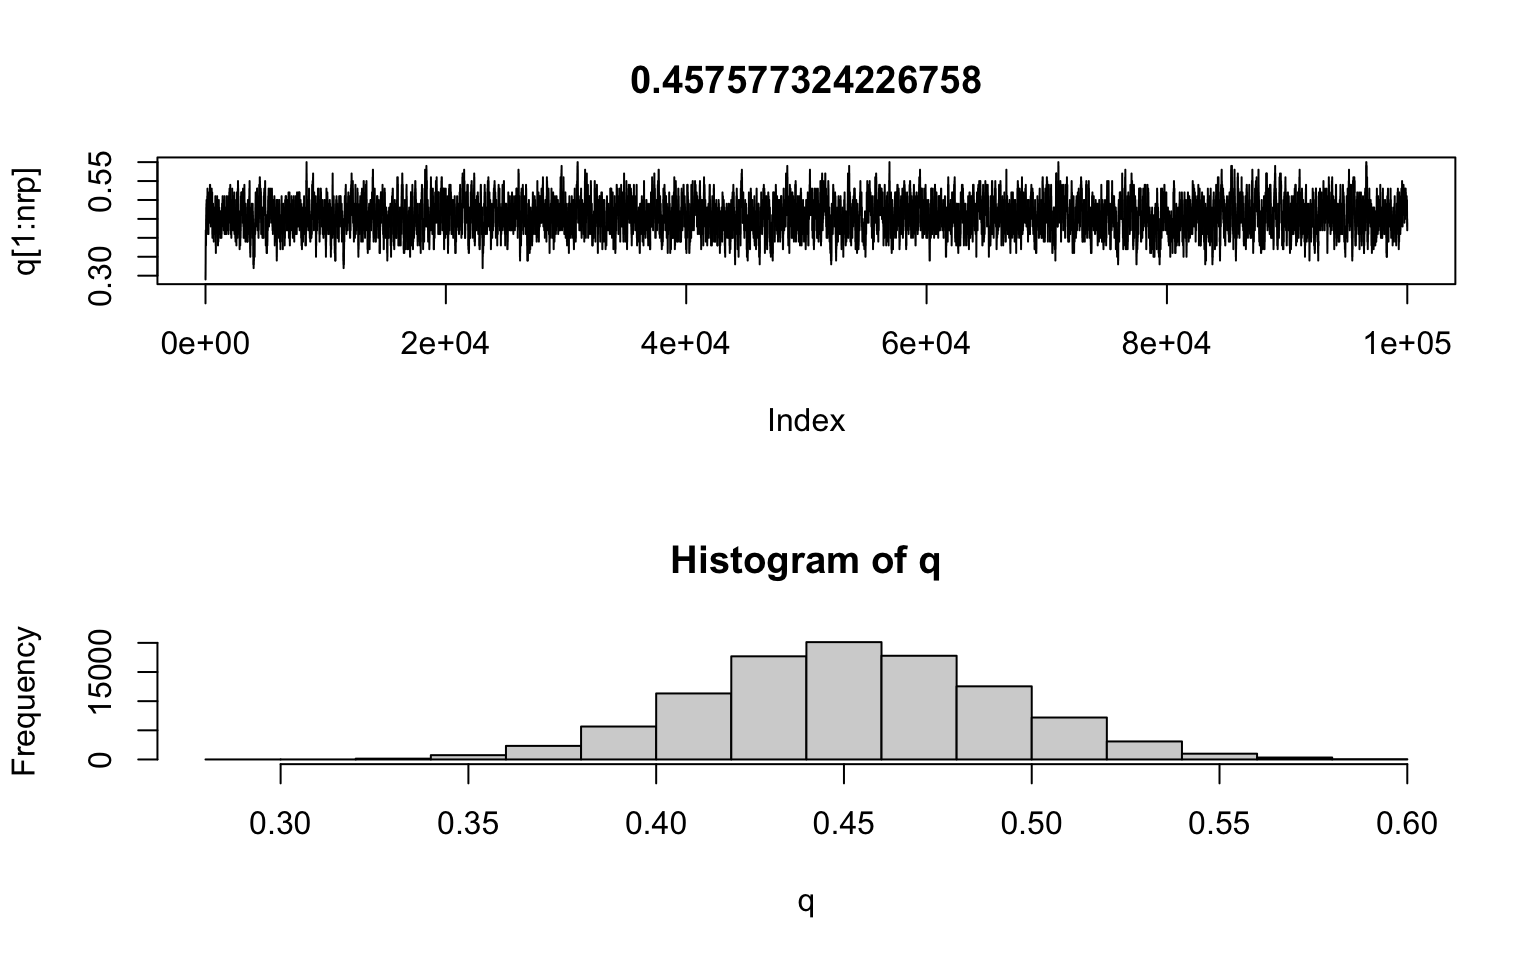
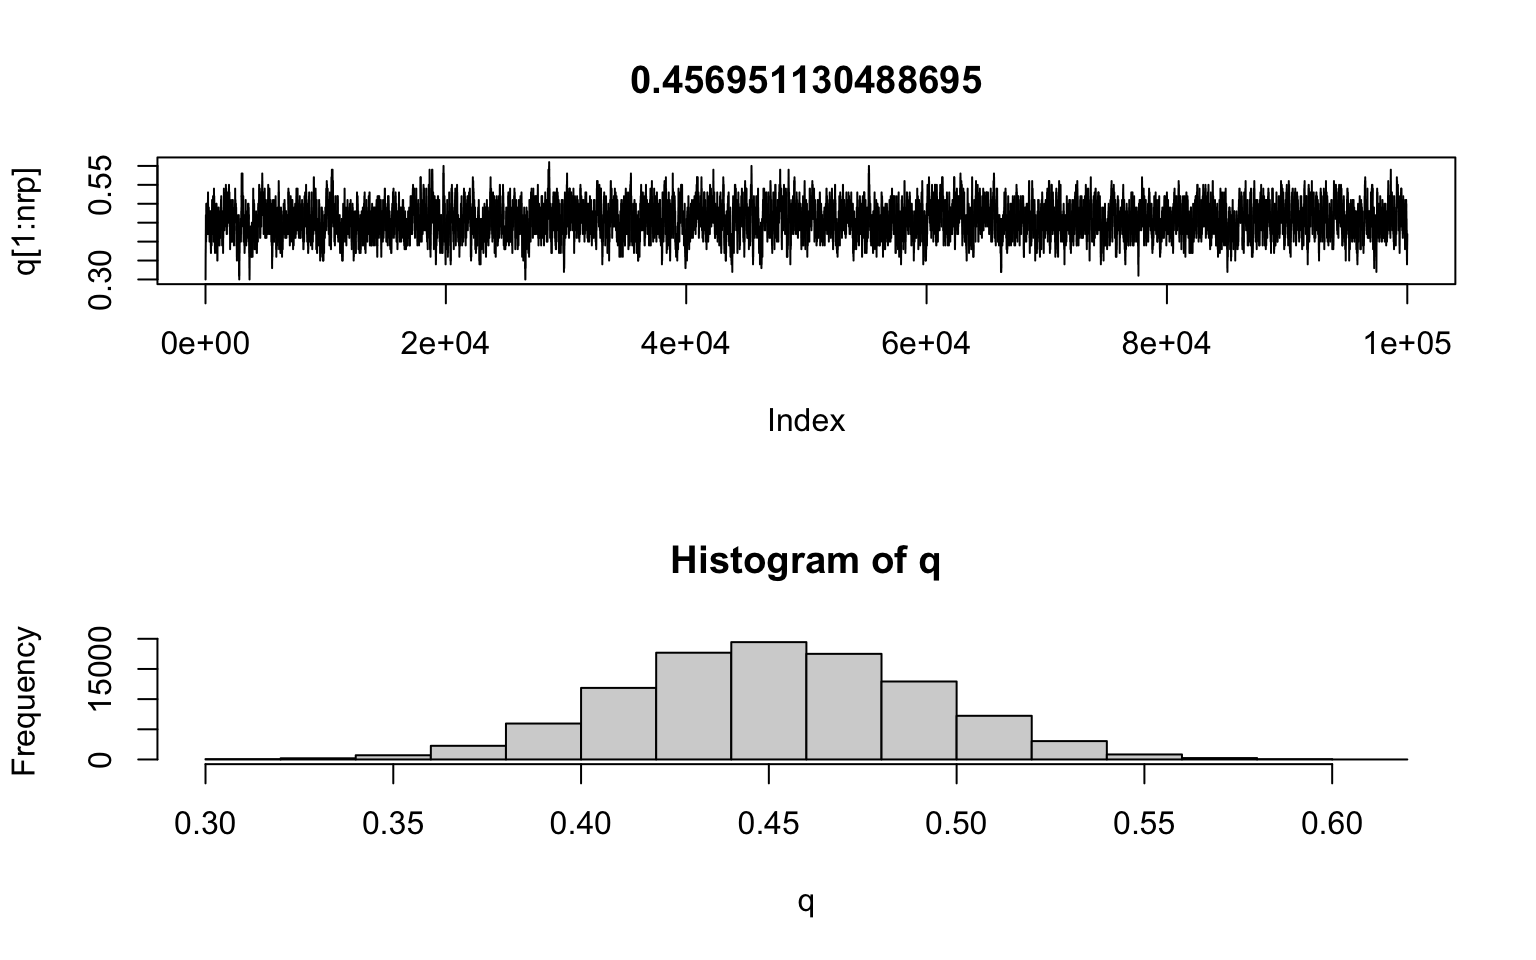
modify 2

diff --git a/docs/baba.html b/docs/baba.html
@@ -1187,30 +1187,32 @@
 <div class="sourceCode" id="cb11"><pre class="sourceCode r"><code class="sourceCode r"><span id="cb11-1"><a href="#cb11-1" aria-hidden="true" tabindex="-1"></a><span class="fu">layout</span>(<span class="fu">matrix</span>(<span class="dv">1</span><span class="sc">:</span><span class="dv">2</span>, <span class="at">ncol=</span><span class="dv">2</span>))</span>
 <span id="cb11-2"><a href="#cb11-2" aria-hidden="true" tabindex="-1"></a>nrp<span class="ot">&lt;-</span><span class="dv">2000</span></span>
 <span id="cb11-3"><a href="#cb11-3" aria-hidden="true" tabindex="-1"></a>data<span class="ot">&lt;-</span><span class="fu">c</span>(<span class="fl">2.4</span>,<span class="fl">3.2</span>,<span class="fl">2.2</span>,<span class="fl">4.6</span>,<span class="fl">3.3</span>)</span>
-<span id="cb11-4"><a href="#cb11-4" aria-hidden="true" tabindex="-1"></a>ti<span class="ot">&lt;-</span><span class="fu">runif</span>(<span class="dv">1</span>,<span class="at">min=</span><span class="sc">-</span><span class="dv">2</span>,<span class="at">max=</span><span class="dv">2</span>) <span class="co"># -2から2の連続一様分布に従う乱数</span></span>
-<span id="cb11-5"><a href="#cb11-5" aria-hidden="true" tabindex="-1"></a>knl<span class="ot">&lt;-</span><span class="fu">numeric</span>(nrp)</span>
-<span id="cb11-6"><a href="#cb11-6" aria-hidden="true" tabindex="-1"></a>theta<span class="ot">&lt;-</span><span class="fu">numeric</span>(nrp)</span>
-<span id="cb11-7"><a href="#cb11-7" aria-hidden="true" tabindex="-1"></a>theta[<span class="dv">1</span>]<span class="ot">&lt;-</span>ti</span>
-<span id="cb11-8"><a href="#cb11-8" aria-hidden="true" tabindex="-1"></a>ratio<span class="ot">&lt;-</span><span class="dv">1</span></span>
-<span id="cb11-9"><a href="#cb11-9" aria-hidden="true" tabindex="-1"></a><span class="cf">for</span> (rp <span class="cf">in</span> <span class="dv">1</span><span class="sc">:</span>nrp){</span>
-<span id="cb11-10"><a href="#cb11-10" aria-hidden="true" tabindex="-1"></a>  kp<span class="ot">&lt;-</span><span class="fu">numeric</span>(<span class="fu">length</span>(data))</span>
-<span id="cb11-11"><a href="#cb11-11" aria-hidden="true" tabindex="-1"></a>  <span class="cf">for</span> (d <span class="cf">in</span> <span class="dv">1</span><span class="sc">:</span><span class="fu">length</span>(data)){</span>
-<span id="cb11-12"><a href="#cb11-12" aria-hidden="true" tabindex="-1"></a>    kp[d]<span class="ot">&lt;-</span><span class="fu">exp</span>(<span class="sc">-</span>((data[d]<span class="sc">-</span>theta[rp])<span class="sc">^</span><span class="dv">2</span>)<span class="sc">/</span><span class="dv">2</span>)<span class="sc">/</span><span class="fu">sqrt</span>(<span class="dv">2</span>)<span class="sc">*</span>pi</span>
-<span id="cb11-13"><a href="#cb11-13" aria-hidden="true" tabindex="-1"></a>  }</span>
-<span id="cb11-14"><a href="#cb11-14" aria-hidden="true" tabindex="-1"></a>  knl[rp]<span class="ot">&lt;-</span><span class="fu">prod</span>(kp)<span class="sc">*</span><span class="fu">exp</span>(<span class="sc">-</span>(theta[rp]<span class="sc">^</span><span class="dv">2</span><span class="sc">/</span><span class="dv">20000</span>))<span class="sc">/</span><span class="fu">sqrt</span>(<span class="dv">20000</span><span class="sc">*</span>pi) <span class="co">#カーネルの計算</span></span>
-<span id="cb11-15"><a href="#cb11-15" aria-hidden="true" tabindex="-1"></a>  </span>
-<span id="cb11-16"><a href="#cb11-16" aria-hidden="true" tabindex="-1"></a>  <span class="cf">if</span> (rp<span class="sc">&gt;</span><span class="dv">1</span>){</span>
-<span id="cb11-17"><a href="#cb11-17" aria-hidden="true" tabindex="-1"></a>    lr<span class="ot">&lt;-</span>knl[rp]<span class="sc">/</span>knl[rp<span class="dv">-1</span>]  <span class="co"># カーネル比（rate）の算出</span></span>
-<span id="cb11-18"><a href="#cb11-18" aria-hidden="true" tabindex="-1"></a>    <span class="cf">if</span> (<span class="fu">runif</span>(<span class="dv">1</span>)<span class="sc">&gt;</span>lr){ <span class="co"># 確率rateで提案thetaを採用</span></span>
-<span id="cb11-19"><a href="#cb11-19" aria-hidden="true" tabindex="-1"></a>      <span class="co">#print(lr)</span></span>
-<span id="cb11-20"><a href="#cb11-20" aria-hidden="true" tabindex="-1"></a>      theta[rp]<span class="ot">&lt;-</span>theta[rp<span class="dv">-1</span>]</span>
-<span id="cb11-21"><a href="#cb11-21" aria-hidden="true" tabindex="-1"></a>      knl[rp]<span class="ot">&lt;-</span>knl[rp<span class="dv">-1</span>]</span>
-<span id="cb11-22"><a href="#cb11-22" aria-hidden="true" tabindex="-1"></a>    }</span>
-<span id="cb11-23"><a href="#cb11-23" aria-hidden="true" tabindex="-1"></a>  }</span>
-<span id="cb11-24"><a href="#cb11-24" aria-hidden="true" tabindex="-1"></a>  theta[rp<span class="sc">+</span><span class="dv">1</span>]<span class="ot">&lt;-</span>theta[rp]<span class="sc">+</span><span class="fu">rnorm</span>(<span class="dv">1</span>,m,v) <span class="co"># 次のthetaの生成, 平均m, 分散vの正規分布に従う乱数を前のthetaにたす</span></span>
-<span id="cb11-25"><a href="#cb11-25" aria-hidden="true" tabindex="-1"></a>}</span>
-<span id="cb11-26"><a href="#cb11-26" aria-hidden="true" tabindex="-1"></a><span class="fu">plot</span>(theta[<span class="dv">1</span><span class="sc">:</span>nrp],<span class="at">type=</span><span class="st">&#39;l&#39;</span>, <span class="at">main=</span><span class="fu">mean</span>(theta))</span>
-<span id="cb11-27"><a href="#cb11-27" aria-hidden="true" tabindex="-1"></a><span class="fu">hist</span>(theta)</span></code></pre></div>
+<span id="cb11-4"><a href="#cb11-4" aria-hidden="true" tabindex="-1"></a>m<span class="ot">&lt;-</span><span class="dv">0</span></span>
+<span id="cb11-5"><a href="#cb11-5" aria-hidden="true" tabindex="-1"></a>v<span class="ot">&lt;-</span><span class="dv">1</span></span>
+<span id="cb11-6"><a href="#cb11-6" aria-hidden="true" tabindex="-1"></a>ti<span class="ot">&lt;-</span><span class="fu">runif</span>(<span class="dv">1</span>,<span class="at">min=</span><span class="sc">-</span><span class="dv">2</span>,<span class="at">max=</span><span class="dv">2</span>) <span class="co"># -2から2の連続一様分布に従う乱数</span></span>
+<span id="cb11-7"><a href="#cb11-7" aria-hidden="true" tabindex="-1"></a>knl<span class="ot">&lt;-</span><span class="fu">numeric</span>(nrp)</span>
+<span id="cb11-8"><a href="#cb11-8" aria-hidden="true" tabindex="-1"></a>theta<span class="ot">&lt;-</span><span class="fu">numeric</span>(nrp)</span>
+<span id="cb11-9"><a href="#cb11-9" aria-hidden="true" tabindex="-1"></a>theta[<span class="dv">1</span>]<span class="ot">&lt;-</span>ti</span>
+<span id="cb11-10"><a href="#cb11-10" aria-hidden="true" tabindex="-1"></a>ratio<span class="ot">&lt;-</span><span class="dv">1</span></span>
+<span id="cb11-11"><a href="#cb11-11" aria-hidden="true" tabindex="-1"></a><span class="cf">for</span> (rp <span class="cf">in</span> <span class="dv">1</span><span class="sc">:</span>nrp){</span>
+<span id="cb11-12"><a href="#cb11-12" aria-hidden="true" tabindex="-1"></a>  kp<span class="ot">&lt;-</span><span class="fu">numeric</span>(<span class="fu">length</span>(data))</span>
+<span id="cb11-13"><a href="#cb11-13" aria-hidden="true" tabindex="-1"></a>  <span class="cf">for</span> (d <span class="cf">in</span> <span class="dv">1</span><span class="sc">:</span><span class="fu">length</span>(data)){</span>
+<span id="cb11-14"><a href="#cb11-14" aria-hidden="true" tabindex="-1"></a>    kp[d]<span class="ot">&lt;-</span><span class="fu">exp</span>(<span class="sc">-</span>((data[d]<span class="sc">-</span>theta[rp])<span class="sc">^</span><span class="dv">2</span>)<span class="sc">/</span><span class="dv">2</span>)<span class="sc">/</span><span class="fu">sqrt</span>(<span class="dv">2</span>)<span class="sc">*</span>pi</span>
+<span id="cb11-15"><a href="#cb11-15" aria-hidden="true" tabindex="-1"></a>  }</span>
+<span id="cb11-16"><a href="#cb11-16" aria-hidden="true" tabindex="-1"></a>  knl[rp]<span class="ot">&lt;-</span><span class="fu">prod</span>(kp)<span class="sc">*</span><span class="fu">exp</span>(<span class="sc">-</span>(theta[rp]<span class="sc">^</span><span class="dv">2</span><span class="sc">/</span><span class="dv">20000</span>))<span class="sc">/</span><span class="fu">sqrt</span>(<span class="dv">20000</span><span class="sc">*</span>pi) <span class="co">#カーネルの計算</span></span>
+<span id="cb11-17"><a href="#cb11-17" aria-hidden="true" tabindex="-1"></a>  </span>
+<span id="cb11-18"><a href="#cb11-18" aria-hidden="true" tabindex="-1"></a>  <span class="cf">if</span> (rp<span class="sc">&gt;</span><span class="dv">1</span>){</span>
+<span id="cb11-19"><a href="#cb11-19" aria-hidden="true" tabindex="-1"></a>    lr<span class="ot">&lt;-</span>knl[rp]<span class="sc">/</span>knl[rp<span class="dv">-1</span>]  <span class="co"># カーネル比（rate）の算出</span></span>
+<span id="cb11-20"><a href="#cb11-20" aria-hidden="true" tabindex="-1"></a>    <span class="cf">if</span> (<span class="fu">runif</span>(<span class="dv">1</span>)<span class="sc">&gt;</span>lr){ <span class="co"># 確率rateで提案thetaを採用</span></span>
+<span id="cb11-21"><a href="#cb11-21" aria-hidden="true" tabindex="-1"></a>      <span class="co">#print(lr)</span></span>
+<span id="cb11-22"><a href="#cb11-22" aria-hidden="true" tabindex="-1"></a>      theta[rp]<span class="ot">&lt;-</span>theta[rp<span class="dv">-1</span>]</span>
+<span id="cb11-23"><a href="#cb11-23" aria-hidden="true" tabindex="-1"></a>      knl[rp]<span class="ot">&lt;-</span>knl[rp<span class="dv">-1</span>]</span>
+<span id="cb11-24"><a href="#cb11-24" aria-hidden="true" tabindex="-1"></a>    }</span>
+<span id="cb11-25"><a href="#cb11-25" aria-hidden="true" tabindex="-1"></a>  }</span>
+<span id="cb11-26"><a href="#cb11-26" aria-hidden="true" tabindex="-1"></a>  theta[rp<span class="sc">+</span><span class="dv">1</span>]<span class="ot">&lt;-</span>theta[rp]<span class="sc">+</span><span class="fu">rnorm</span>(<span class="dv">1</span>,m,v) <span class="co"># 次のthetaの生成, 平均m, 分散vの正規分布に従う乱数を前のthetaにたす</span></span>
+<span id="cb11-27"><a href="#cb11-27" aria-hidden="true" tabindex="-1"></a>}</span>
+<span id="cb11-28"><a href="#cb11-28" aria-hidden="true" tabindex="-1"></a><span class="fu">plot</span>(theta[<span class="dv">1</span><span class="sc">:</span>nrp],<span class="at">type=</span><span class="st">&#39;l&#39;</span>, <span class="at">main=</span><span class="fu">mean</span>(theta))</span>
+<span id="cb11-29"><a href="#cb11-29" aria-hidden="true" tabindex="-1"></a><span class="fu">hist</span>(theta)</span></code></pre></div>
 <p><img src="baba_files/figure-html/m-h%20method-1.png" width="768" /></p>
 </div>
 <div id="mh法の欠点" class="section level2">
